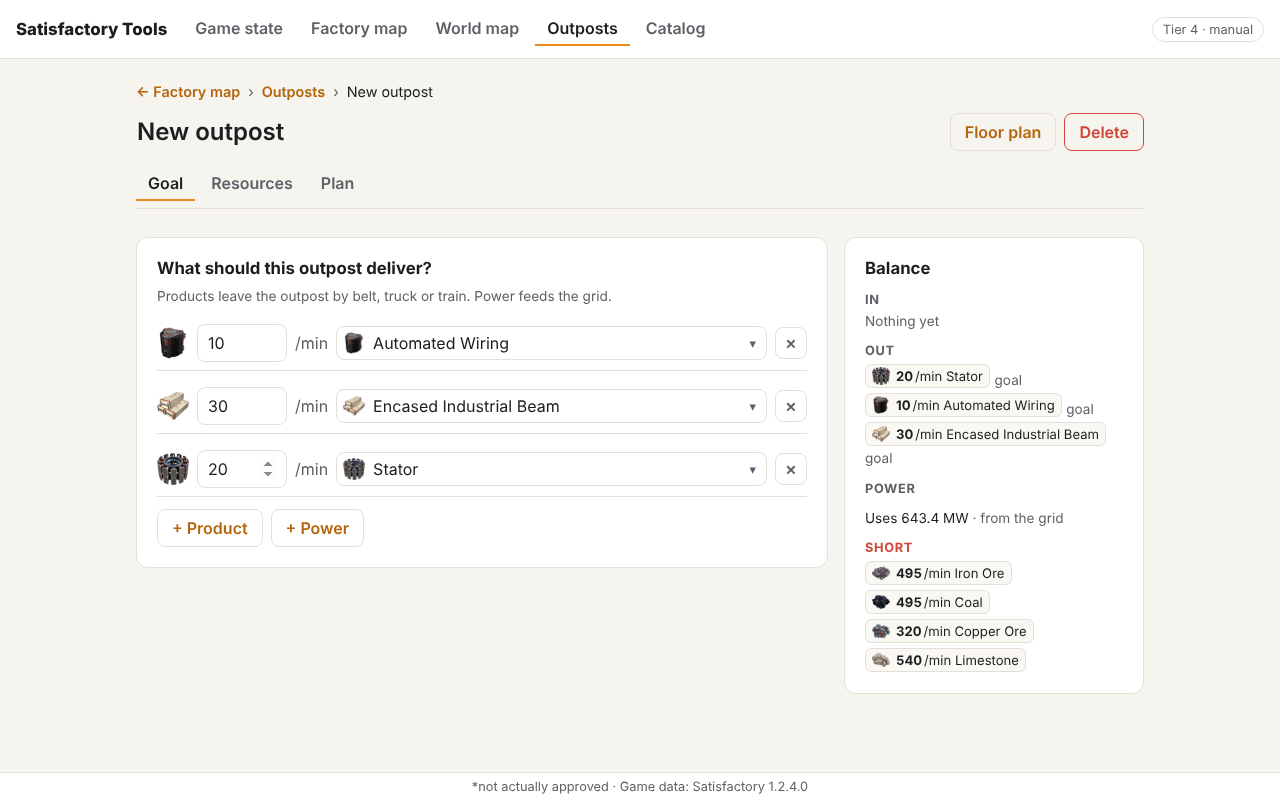
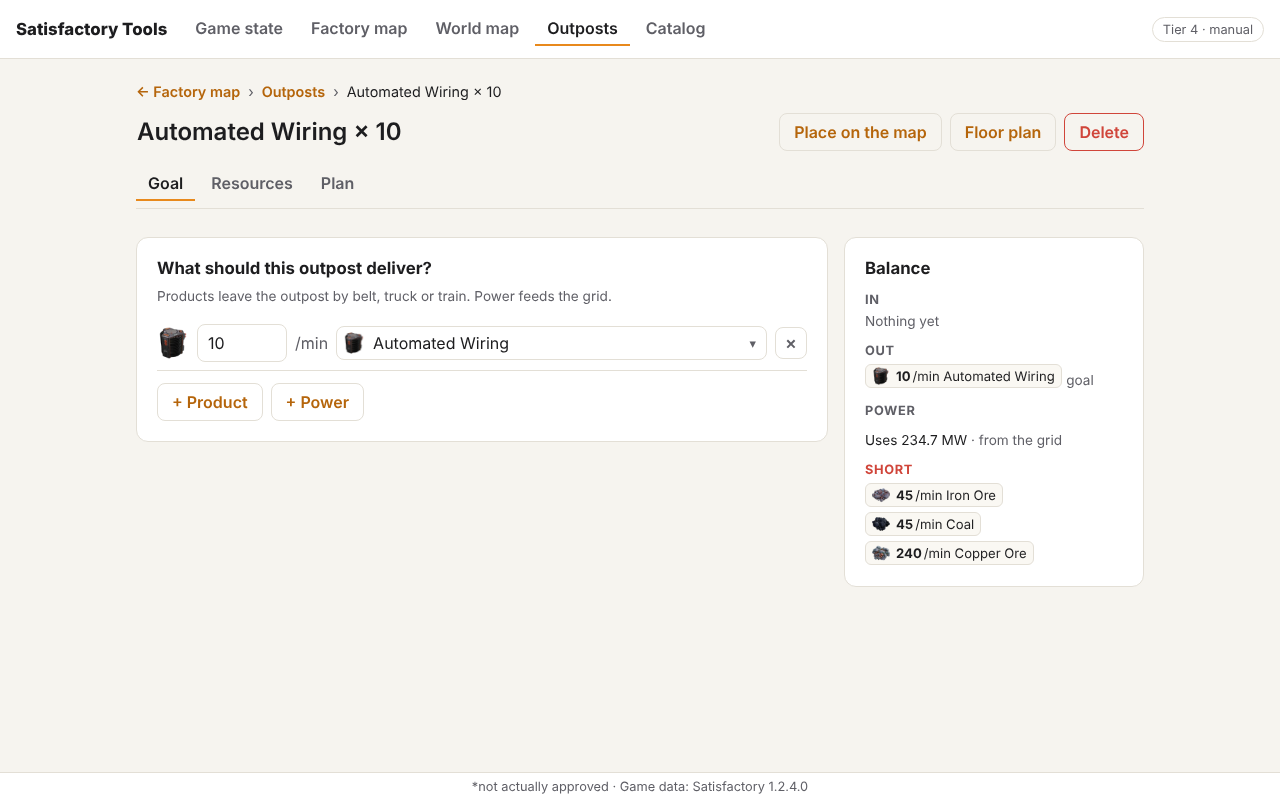
Name single-product outposts "Item × rate"
Goals name the outpost as "Reinforced Iron Plate × 20". Raw resources
among the goals are left out unless they are all it delivers. Names made
in the old "Item 60/min" format still count as automatic and catch up
when the outposts load; typed names are kept.

Closes #71

Claude-Session: https://claude.ai/code/session_01LK2DvH4EQbPXXACobeXg9P

diff --git a/src/plan/naming.ts b/src/plan/naming.ts
@@ -1,6 +1,6 @@
 // Outpost names that describe the outpost: what it delivers, or else what it mines.
 // A name stays automatic, and follows the outpost as it changes, until someone types their own.
-import { itemName } from '../data'
+import { itemName, resourcesById } from '../data'
 import { fmt } from '../format'
 import type { OutpostPlan } from './types'
 
@@ -9,11 +9,17 @@ type Described = Pick<OutpostPlan, 'goals' | 'nodes'>
 const DEFAULT = /^Outpost \d+$/
 
 /**
- * "Iron Plate 60/min · Screw 120/min" from its goals, otherwise "Iron Ore ×2 · Copper Ore" from
- * its nodes, most first. `fallback` when it has neither.
+ * "Reinforced Iron Plate × 20" from its goals, otherwise "Iron Ore ×2 · Copper Ore" from its
+ * nodes, most first. Raw resources among the goals only name it when they are all it delivers.
+ * `fallback` when it has neither.
  */
 export function autoName(plan: Described, fallback = 'New outpost') {
-  const goals = plan.goals.map((g) => (g.kind === 'item' ? `${itemName(g.item)} ${fmt(g.perMin)}/min` : `${fmt(g.mw, 1)} MW`))
+  return describe(plan, fallback, (item, perMin) => `${itemName(item)} × ${fmt(perMin)}`)
+}
+
+function describe(plan: Described, fallback: string, label: (item: string, perMin: number) => string) {
+  const made = plan.goals.filter((g) => g.kind !== 'item' || !resourcesById.has(g.item))
+  const goals = (made.length ? made : plan.goals).map((g) => (g.kind === 'item' ? label(g.item, g.perMin) : `${fmt(g.mw, 1)} MW`))
   if (goals.length) return goals.join(' · ')
   const counts = new Map<string, number>()
   for (const n of plan.nodes) counts.set(n.resource, (counts.get(n.resource) ?? 0) + 1)
@@ -26,7 +32,9 @@ export function autoName(plan: Described, fallback = 'New outpost') {
 
 /** Whether the name is still one we made (so it may be updated), not one the player typed. */
 export function isAutoName(plan: Described & { name: string }) {
-  return DEFAULT.test(plan.name) || plan.name === autoName(plan, plan.name) || / outpost$/.test(plan.name) || plan.name === 'New outpost'
+  // Names from before the "Item × rate" format, like "Iron Plate 60/min", count as ours too.
+  const legacy = describe(plan, plan.name, (item, perMin) => `${itemName(item)} ${fmt(perMin)}/min`)
+  return DEFAULT.test(plan.name) || plan.name === autoName(plan, plan.name) || plan.name === legacy || / outpost$/.test(plan.name) || plan.name === 'New outpost'
 }
 
 /** The name after a change: re-made if it was automatic, kept if the player chose it. */

diff --git a/src/plan/naming.test.ts b/src/plan/naming.test.ts
@@ -9,17 +9,27 @@ describe('outpost names', () => {
   it('names an outpost after what it delivers, else what it mines', () => {
     expect(autoName({ goals: [], nodes: [] }, 'Outpost 3')).toBe('Outpost 3')
     expect(autoName({ goals: [], nodes: [node('Desc_OreCopper_C'), node('Desc_OreIron_C'), node('Desc_OreIron_C')] })).toBe('Iron Ore ×2 · Copper Ore')
-    expect(autoName({ goals: [plate], nodes: [node('Desc_OreIron_C')] })).toBe('Iron Plate 60/min')
+    expect(autoName({ goals: [plate], nodes: [node('Desc_OreIron_C')] })).toBe('Iron Plate × 60')
   })
 
   it('follows the outpost while the name is ours, and keeps a typed one', () => {
     const mined = { name: 'Iron Ore', goals: [], nodes: [node('Desc_OreIron_C')] }
     expect(isAutoName(mined)).toBe(true)
-    expect(nameAfter(mined, { goals: [plate], nodes: mined.nodes })).toBe('Iron Plate 60/min')
+    expect(nameAfter(mined, { goals: [plate], nodes: mined.nodes })).toBe('Iron Plate × 60')
     expect(nameAfter({ ...mined, name: 'Outpost 2' }, { goals: [], nodes: [] })).toBe('Outpost 2')
-    expect(nameAfter({ ...mined, name: 'Iron Plate outpost' }, { goals: [plate], nodes: [] })).toBe('Iron Plate 60/min')
+    expect(nameAfter({ ...mined, name: 'Iron Plate outpost' }, { goals: [plate], nodes: [] })).toBe('Iron Plate × 60')
     const typed = { ...mined, name: 'Home base' }
     expect(isAutoName(typed)).toBe(false)
     expect(nameAfter(typed, { goals: [plate], nodes: [] })).toBe('Home base')
+  })
+  it('leaves raw resources out of the name unless they are all it delivers', () => {
+    const ore: Goal = { kind: 'item', item: 'Desc_OreIron_C', perMin: 120 }
+    expect(autoName({ goals: [plate, ore], nodes: [] })).toBe('Iron Plate × 60')
+    expect(autoName({ goals: [ore], nodes: [] })).toBe('Iron Ore × 120')
+  })
+  it('renames outposts still carrying the old "Item 60/min" name', () => {
+    const old = { name: 'Iron Plate 60/min', goals: [plate], nodes: [] }
+    expect(isAutoName(old)).toBe(true)
+    expect(nameAfter(old, { goals: [{ ...plate, perMin: 30 }], nodes: [] })).toBe('Iron Plate × 30')
   })
 })

diff --git a/src/plan/store.ts b/src/plan/store.ts
@@ -13,12 +13,15 @@ type Legacy = Partial<OutpostPlan> & {
 
 function normalize(o: Legacy): OutpostPlan {
   const now = new Date().toISOString()
+  const goals: OutpostPlan['goals'] = o.goals ?? (o.target ? [{ kind: 'item', ...o.target }] : [])
+  const nodes = o.nodes ?? []
   return {
     id: o.id,
-    name: o.name,
+    // Names we made in an older format catch up to the current one.
+    name: typeof o.name === 'string' ? nameAfter({ name: o.name, goals, nodes }, { goals, nodes }) : o.name,
     notes: o.notes ?? '',
-    goals: o.goals ?? (o.target ? [{ kind: 'item', ...o.target }] : []),
-    nodes: o.nodes ?? [],
+    goals,
+    nodes,
     imports: o.imports ?? [],
     recipeChoices: o.recipeChoices ?? o.choices ?? {},
     selfPowered: o.selfPowered ?? false,
